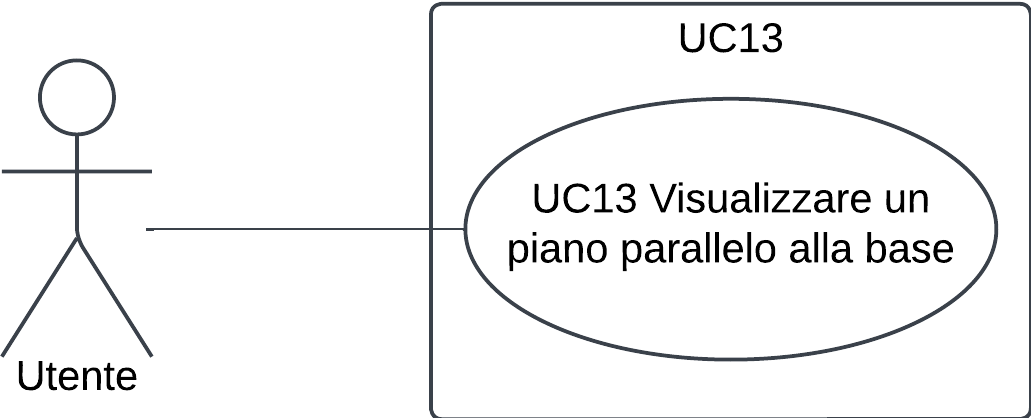
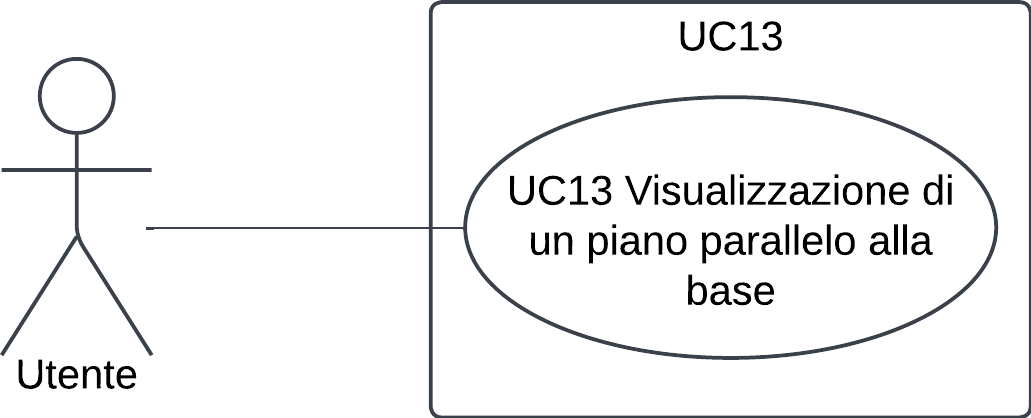
Fix 3.0
Ultimate modifiche sui nomi degli use case e sulla formattazione stilistica uniforme del documento

diff --git a/Docs/Generali/analisi_dei_requisiti/02_use_cases.tex b/Docs/Generali/analisi_dei_requisiti/02_use_cases.tex
@@ -105,10 +105,10 @@
         \end{itemize}
 \end{itemize}
 
-\subsection{UC10 - Visualizzare i valori di una barra del grafico}
+\subsection{UC10 - Visualizzazione dei valori di una barra del grafico}
 \begin{figure}[h!]\centering
     \includegraphics[scale=0.7]{template/images/UC10.png}
-    \caption{UC10 - Visualizzare i valori di una barra del grafico}
+    \caption{UC10 - Visualizzazione dei valori di una barra del grafico}
 \end{figure}
 \begin{itemize}    
     \item \textbf{Attore:} utente;
@@ -129,10 +129,10 @@
         \end{itemize}
 \end{itemize}
 
-\subsection{UC11: Selezione elementi}
+\subsection{UC11 - Selezione elementi}
 \begin{figure}[h!]\centering
     \includegraphics[scale=0.7]{template/images/UC11.png}
-    \caption{UC11: Selezione elementi}
+    \caption{UC11 - Selezione elementi}
 \end{figure}
 \begin{itemize}    
     \item \textbf{Attore:} utente;
@@ -156,10 +156,10 @@
 
 \pagebreak
 
-\subsubsection{UC11.1: Selezione di un elemento del grafico}
+\subsubsection{UC11.1 - Selezione di un elemento del grafico}
 \begin{figure}[h!]\centering
     \includegraphics[scale=0.7]{template/images/UC11.1.png}
-    \caption{UC11.1: Selezione di un elemento del grafico}
+    \caption{UC11.1 - Selezione di un elemento del grafico}
 \end{figure}
 \begin{itemize}    
     \item \textbf{Attore:} utente;
@@ -179,7 +179,7 @@
             \item L'utente interagisce con il grafico 3D e seleziona una barra.
         \end{itemize}
 \end{itemize}
-\paragraph{UC11.1.1: Enfatizzare selezione nella tabella}
+\paragraph{UC11.1.1 - Enfatizzazione della selezione nella tabella}
 \begin{itemize}    
     \item \textbf{Attore:} utente;
     \item \textbf{Descrizione:} Viene evidenziata in maniera opportuna nella tabella la selezione compiuta dall'utente nel grafico 3D.
@@ -201,7 +201,7 @@
 
 \pagebreak
 
-\subsubsection{UC11.2: Selezione di una cella della tabella}
+\subsubsection{UC11.2 - Selezione di una cella della tabella}
 \begin{figure}[h!]\centering
     \includegraphics[scale=0.7]{template/images/UC11.2.png}
     \caption{UC11.2: Selezione di una cella della tabella}
@@ -224,7 +224,7 @@
             \item L'utente interagisce con la tabella selezionando una cella la quale verrà evidenziata.
         \end{itemize}
 \end{itemize}
-\paragraph{UC11.2.1: Enfatizzare selezione nel grafico}
+\paragraph{UC11.2.1 - Enfatizzazione selezione nel grafico}
 \begin{itemize}    
     \item \textbf{Attore:} utente;
     \item \textbf{Descrizione:} Viene evidenziata in maniera opportuna nel grafico 3D la selezione compiuta dall'utente nella tabella.
@@ -243,7 +243,7 @@
             \item L'utente interagisce con una cella della tabella, evidenziando la corrispondente barra del grafico 3D.
         \end{itemize}
 \end{itemize}
-\paragraph{UC11.2.2: Auto-positioning}
+\paragraph{UC11.2.2 - Auto-positioning}
 \begin{itemize}    
     \item \textbf{Attore:} utente;
     \item \textbf{Descrizione:} In seguito alla selezione di una cella, la vista si sposta sulla corrispondente barra del grafico 3D, centrandola sullo schermo.
@@ -263,7 +263,7 @@
         \end{itemize}
 \end{itemize}
 
-\subsection{UC12: Modifica trasparenza barra del grafico}
+\subsection{UC12 - Modifica trasparenza barra del grafico}
 \begin{figure}[h!]\centering
     \includegraphics[scale=0.7]{template/images/UC12.png}
     \caption{Modifica trasparenza barra del grafico}
@@ -285,7 +285,7 @@
             \item L'utente evidenzia una determinata barra del grafico viene aumentato il valore di trasparenza a tutte le altre.
         \end{itemize}
 \end{itemize}
-\subsubsection{UC12.1: Opacizzare le barre rispetto a valori superiori o inferiori}
+\subsubsection{UC12.1 - Modifica trasparenza delle barre rispetto a valori superiori o inferiori}
 \begin{itemize}    
     \item \textbf{Attore:} utente;
     \item \textbf{Descrizione:} L'utente può stabilire un valore limite al di sopra o al di sotto del quale alcune barre verranno evidenziate.
@@ -305,7 +305,7 @@
             \item L'utente interagisce con l'interfaccia selezionando il numero di barre con i valori più elevati o più bassi da evidenziare nel grafico 3D.
         \end{itemize}
 \end{itemize}
-\subsubsection{UC12.2: Lasciare visibili solo le prime/ultime X barre}
+\subsubsection{UC12.2 - Lasciare visibili solo le prime/ultime X barre}
 \begin{itemize}    
     \item \textbf{Attore:} utente;
     \item \textbf{Descrizione:} L'utente può selezionare quante barre con i valori più elevati o più bassi evidenziare.
@@ -325,7 +325,7 @@
             \item L'utente interagisce con l'interfaccia selezionando il numero di barre con i valori più elevati o più bassi da evidenziare nel grafico 3D.
         \end{itemize}
 \end{itemize}
-\subsubsection{UC12.3: Opacizzare le barre con i valori superiori/inferiori al valore medio}
+\subsubsection{UC12.3 - Modifica trasparenza delle barre con i valori superiori/inferiori al valore medio}
 \begin{itemize}    
     \item \textbf{Attore:} utente;
     \item \textbf{Descrizione:} L'utente può scegliere se evidenziare nel grafico 3D le barre il quale valore è superiore o inferiore al valore medio.
@@ -346,10 +346,10 @@
         \end{itemize}
 \end{itemize}
 
-\subsection{UC13: Visualizzare un piano parallelo alla base}
+\subsection{UC13 - Visualizzazione di un piano parallelo alla base}
 \begin{figure}[h!]\centering
     \includegraphics[scale=0.7]{template/images/UC13.png}
-    \caption{UC13: Visualizzare un piano parallelo alla base}
+    \caption{UC13 - Visualizzazione di un piano parallelo alla base}
 \end{figure}
 \begin{itemize}    
     \item \textbf{Attore:} utente;
@@ -371,7 +371,7 @@
 
 \pagebreak
 
-\subsection{UC14: Visualizzazione errore nel caricamento del dataset}
+\subsection{UC14 - Visualizzazione errore nel caricamento del dataset}
 \begin{figure}[h!]\centering
     \includegraphics[scale=0.7]{template/images/UC14.png}
     \caption{UC14: Visualizzazione errore nel caricamento del dataset}
